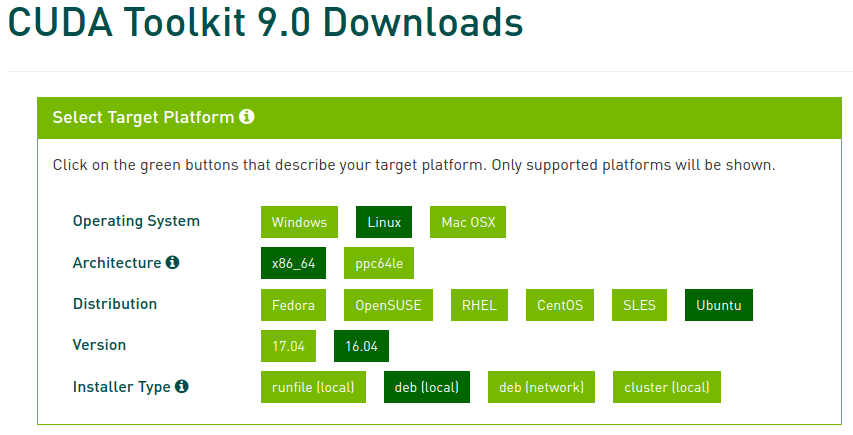
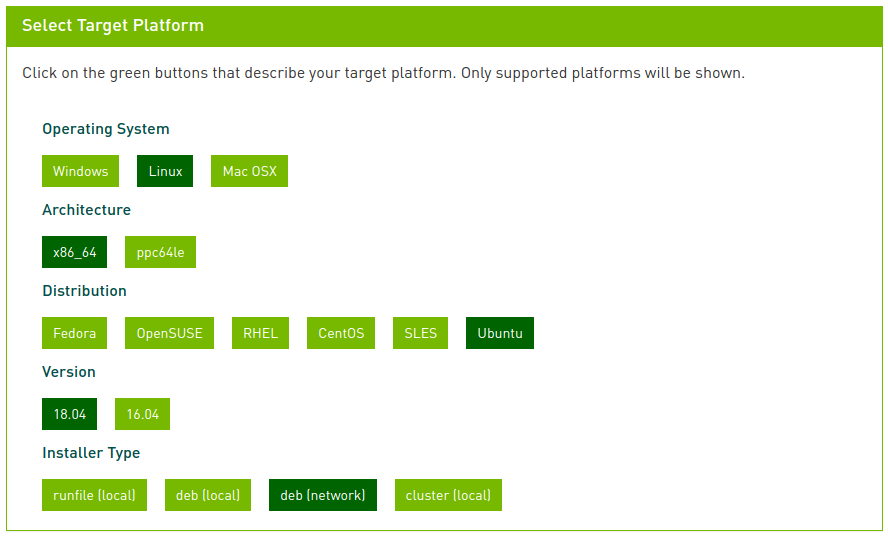
update for ubuntu 18.04 and ros melodic

diff --git a/instructions/cuda_install.md b/instructions/cuda_install.md
@@ -2,67 +2,20 @@
 
 #### 1. Скачиваем установщики
 
-Страница загрузки [CUDA 9.0](https://developer.nvidia.com/cuda-90-download-archive)
+Страница загрузки [CUDA](https://developer.nvidia.com/cuda-downloads)
 
 В поле Select Target Platform выбираем все как показано на рисунке ниже.
 
 ![CUDA Select Target Platform](./img/cuda_target.png)
 
-Под полем Select Target Platforms появится еще одно поле с загрузками.
+Под полем Select Target Platforms появится еще одно поле с инструкциями.
 
-Скачиваем все 4 файла.
+Выполняем инструкции кроме самой последней `sudo apt-get -y install cuda`.
+
+Вместо нее выпоняем инструкцию `sudo apt-get -y install cuda-toolkit-10-0`
 
 ![CUDA Installers](./img/cuda_downloads.png)
 
-#### 2. Установка репозиториев CUDA
-
-Необходимо в терминале перейти в папку, куда вы скачали установщики на прошлом шаге, например:
-
-```
-cd ~/Загрузки
-```
-
-Затем установить все скачанные пакеты командой:
-
-```
-sudo dpkg -i cuda-repo-ubuntu1604-9-0-local_9.0.176-1_amd64.deb cuda-repo-ubuntu1604-9-0-local-cublas-performance-update_1.0-1_amd64.deb cuda-repo-ubuntu1604-9-0-local-cublas-performance-update-2_1.0-1_amd64.deb cuda-repo-ubuntu1604-9-0-local-cublas-performance-update-3_1.0-1_amd64.deb
-```
-
-Это установит основной пакет с репозиторием и все патчи. 
-
-После этого необходимо добавить ключи репозитория CUDA в систему, чтобы apt знал что репозиториям CUDA можно доверять.
-
-```
-sudo apt-key add /var/cuda-repo-9-0-local/7fa2af80.pub
-```
-
-Потом нужно обновить списки пакетов.
-
-```
-sudo apt update
-```
-
-#### 3. Установка CUDA Toolkit
-
-Если вы самостоятельно не устанавливали драйвера для видеокарт Nvidia то можно использовать следующую команду:
-
-```
-sudo apt install cuda
-```
-
-Драйвера автоматически установятся в ходе установки пакета cuda. По окончании установки надо выполнить следующую команду для настройки драйверов и перезагрузить компьютер.
-
-```
-sudo nvidia-xconfig
-```
-
-Если вы самостоятельно установили необходимый вам драйвер для видеокарт Nvidia, то установку CUDA Toolkit нужно производить следующей командой
-
-```
-sudo apt install cuda-toolkit-9-0
-```
-
-Это установит только CUDA Toolkit и не будет трогать драйвера.
 
 #### 4. Настройка окружения для работы с CUDA Toolkit
 
@@ -71,15 +24,17 @@ sudo apt install cuda-toolkit-9-0
 ```
 # Объявим переменную, указывающую на основную папку CUDA
 
-echo 'export CUDA_ROOT=/usr/local/cuda-9.0' >> ~/.bashrc 
+echo 'export CUDAROOT=/usr/local/cuda' >> ~/.bashrc 
 
 # Добавим путь к исполняемым файлам CUDA Toolkit в системную переменную PATH, где находятся все пути для поиска исполняемых файлов
 
-echo 'export PATH=$CUDA_ROOT/bin:$PATH' >> ~/.bashrc 
+echo 'export PATH=$CUDAROOT/bin:$PATH' >> ~/.bashrc 
 
 # Добавим путь к библиотекам CUDA Toolkit в системную переменную LD_LIBRARY_PATH, где находятся пути для поиска библиотек
 
-echo 'export LD_LIBRARY_PATH=$CUDA_ROOT/lib64:$LD_LIBRARY_PATH' >> ~/.bashrc 
+echo 'export LD_LIBRARY_PATH=$CUDAROOT/lib64:$LD_LIBRARY_PATH' >> ~/.bashrc
+
+source ~/.bashrc
 ```
 
 Проверить правильность действий можно открыв новый терминал и введя команду ` nvcc --version ` .
@@ -89,9 +44,9 @@ echo 'export LD_LIBRARY_PATH=$CUDA_ROOT/lib64:$LD_LIBRARY_PATH' >> ~/.bashrc
 $ nvcc --version
 
 nvcc: NVIDIA (R) Cuda compiler driver
-Copyright (c) 2005-2017 NVIDIA Corporation
-Built on Fri_Sep__1_21:08:03_CDT_2017
-Cuda compilation tools, release 9.0, V9.0.176
+Copyright (c) 2005-2018 NVIDIA Corporation
+Built on Sat_Aug_25_21:08:01_CDT_2018
+Cuda compilation tools, release 10.0, V10.0.130
 ```
 
 #### 5. Установка cuDNN
@@ -100,26 +55,28 @@ Cuda compilation tools, release 9.0, V9.0.176
 
 Runtime нужен для запуска программ с cuDNN.
 Developer нужен для разработки программ с cuDNN.
+Скачать нужно пакеты для Ubuntu 18.04 и CUDA 10.0
 
-Устанавливаем скачанные пакеты следующим образом:
+Устанавливаем скачанные пакеты следующим образом, если скачанные файлы находятся в папке загрузки:
 
 ```
 cd ~/Загрузки
 
-sudo dpkg -i libcudnn7_7.0.5.15-1+cuda9.0_amd64.deb libcudnn7-dev_7.0.5.15-1+cuda9.0_amd64.deb
+# Названия файлов надо поправить в соотв. с теми что вы скачали
+sudo dpkg -i libcudnn7_7.6.4.38-1+cuda10.0_amd64.deb libcudnn7-dev_7.6.4.38-1+cuda10.0_amd64.deb
 ```
 
 #### 6. Установка TensorRT
 
-Скачиваем пакет [TensorRT](https://developer.nvidia.com/nvidia-tensorrt3_download).
-Нужен пакет for Ubuntu 16.04 and CUDA 9.0 DEB local repo packages.
+Скачиваем пакет [TensorRT](https://developer.nvidia.com/nvidia-tensorrt-5x-download).
+Нужен пакет с версией 5.1 for Ubuntu 18.04 and CUDA 10.0 DEB local repo packages.
 
-Устанавливаем пакет по аналогии с пакетами CUDA:
+Устанавливаем пакет:
 
 ```
 cd ~/Загрузки
 
-sudo dpkg -i nv-tensorrt-repo-ubuntu1604-ga-cuda9.0-trt3.0.4-20180208_1-1_amd64.deb
+sudo dpkg -i nv-tensorrt-repo-ubuntu1804-ga-cuda10.0-trt5.1.5.0-ga-20190427_1-1_amd64.deb
 
 sudo apt update
 
@@ -129,5 +86,5 @@ sudo apt install python-libnvinfer python-libnvinfer-dev python-libnvinfer-doc s
 
 sudo apt install python3-libnvinfer python3-libnvinfer-dev python3-libnvinfer-dev swig3.0 # Для python 3.5
 
-sudo apt install uff-converter-tf # Для всех случаев
+sudo apt install uff-converter-tf
 ```

diff --git a/README.md b/README.md
@@ -10,16 +10,16 @@
 #### **!!! Чтобы скачать TensorRT и cuDNN надо регистрироваться на сайте Nvidia**
 
 ##### ROS:
-- [Ubuntu 16.04 LTS](http://releases.ubuntu.com/releases/16.04/), либо одно из: [Xubuntu](https://xubuntu.org/download), [Kubuntu](https://kubuntu.org/getkubuntu/), [Lubuntu](https://lubuntu.me/downloads/), [Ubuntu Mate](https://ubuntu-mate.org/download/), [Ubuntu Gnome](https://ubuntugnome.org/download/) версии 16.04 LTS
+- [Ubuntu 18.04 LTS](http://releases.ubuntu.com/releases/18.04/), либо одно из: [Xubuntu](https://xubuntu.org/download), [Kubuntu](https://kubuntu.org/getkubuntu/), [Lubuntu](https://lubuntu.me/downloads/), [Ubuntu Mate](https://ubuntu-mate.org/download/), [Ubuntu Gnome](https://ubuntugnome.org/download/) версии 18.04 LTS
 - [ROS Kinetic](http://wiki.ros.org/kinetic/Installation/Ubuntu)
 - Python 2.7
 
 ##### Computer vision:
-- [OpenCV 3.4](https://github.com/opencv/opencv/releases) (OpenCV 3.3-dev идет в комплекте с ROS Kinetic)
-- Nvidia driver 410
+- [OpenCV 3.2](https://github.com/opencv/opencv/releases) (OpenCV 3.2 идет в комплекте с Ubuntu 18.04 и ROS Melodic)
+- Nvidia driver 430
 - [CUDA 10.0](https://developer.nvidia.com/cuda-10.0-download-archive)
-- [TensorRT 5.0 for CUDA 10.0 Ubuntu 16.04](https://developer.nvidia.com/tensorrt) - нужна регистрация
-- [cuDNN 7.5.0](https://developer.nvidia.com/rdp/cudnn-archive) - нужна регистрация
+- [TensorRT 5.1 for CUDA 10.0 Ubuntu 18.04](https://developer.nvidia.com/tensorrt) - нужна регистрация
+- [cuDNN 7.6](https://developer.nvidia.com/cudnn) - нужна регистрация
 - tensorflow 1.13.0
 
 
@@ -30,7 +30,6 @@
 2. [Настройка Python](./instructions/python.md)
 3. [Установка CUDA](./instructions/cuda_install.md)
 4. [Установка ROS](./instructions/ROS_install.md)
-5. [Установка OpenCV](./instructions/opencv.md)
 
 ----------------------
 ## **Полезные ссылки**

diff --git a/instructions/python.md b/instructions/python.md
@@ -8,7 +8,7 @@
 sudo apt install python-dev python-pip python-wheel python-setuptools python-tk python-numpy
 ```
 
-для python 3.5:
+для python 3.6:
 
 ```
 sudo apt install python3-dev python3-pip python3-wheel python3-setuptools python3-tk python3-numpy
@@ -28,7 +28,7 @@ sudo apt install libffi-dev swig
 sudo -H pip2 install -U --force-reinstall pip wheel setuptools numpy chardet urllib3
 ```
     
-для python 3.5:
+для python 3.6:
 
 ```
 sudo -H pip3 install -U --force-reinstall pip wheel setuptools numpy chardet urllib3
@@ -46,7 +46,7 @@ sudo -H pip2 install scikit-learn scikit-image pandas # Пакеты для ма
 sudo -H pip2 install jedi pylint flake8 pep8 # Вспомогательные пакеты (автодополнение в редакторах и т.п.)
 ```
 
-для python 3.5:
+для python 3.6:
 
 ```
 sudo -H pip3 install cffi Cython scipy matplotlib # Базовые пакеты
@@ -61,11 +61,17 @@ sudo -H pip3 install jedi pylint flake8 pep8 # Вспомогательные п
 ```
 sudo -H pip2 install spyder # Для python 2.7
 
-sudo -H pip3 install spyder # Для python 3.5
+sudo -H pip3 install spyder # Для python 3.6
 
 # Ставить только один из ^^^
 ```
 
-5. [Установка модуля OpenCV](./opencv.md)
+5. Установка TensorFlow и Keras
 
-6. Установка TensorFlow и Keras
+После установки CUDA можно поставить библиотеки TensorFlow и Keras для обучения нейросетей
+
+```
+sudo -H pip2 install tensorflow-gpu==1.15.0 keras # Для python 2.7
+
+sudo -H pip3 install tensorflow-gpu==1.15.0 keras # Для python 3.6
+```
